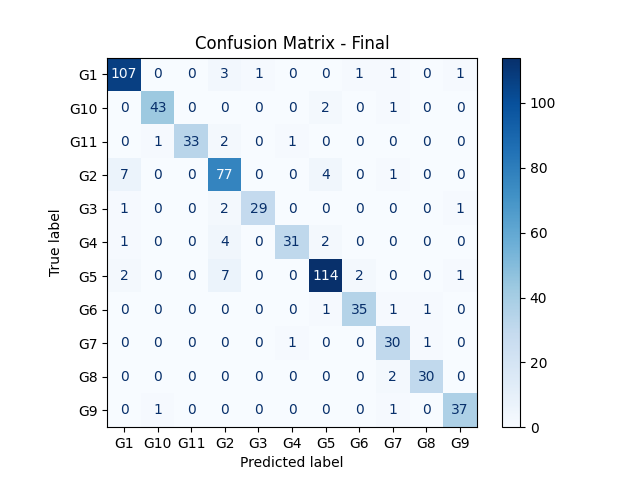
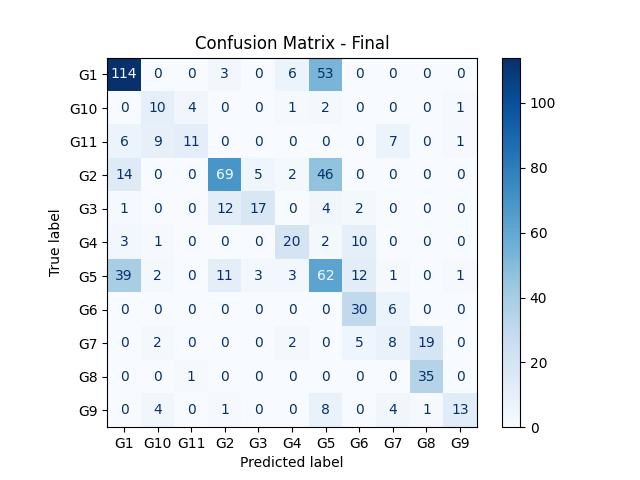
still a wip

diff --git a/train.py b/train.py
@@ -73,13 +73,13 @@ model = models.Sequential([
     layers.Conv2D(64, (3, 3), activation='relu', kernel_regularizer=regularizers.l2(0.001)),
     layers.MaxPooling2D((2, 2)),
 
-    layers.Conv2D(64, (3, 3), activation='relu', kernel_regularizer=regularizers.l2(0.001)),
-    layers.MaxPooling2D((2, 2)),
-
     layers.Conv2D(128, (3, 3), activation='relu', kernel_regularizer=regularizers.l2(0.001)),
     layers.MaxPooling2D((2, 2)),
 
-    layers.Conv2D(128, (3, 3), activation='relu', kernel_regularizer=regularizers.l2(0.001)),
+    layers.Conv2D(256, (3, 3), activation='relu', kernel_regularizer=regularizers.l2(0.001)),
+    layers.MaxPooling2D((2, 2)),
+
+    layers.Conv2D(256, (3, 3), activation='relu', kernel_regularizer=regularizers.l2(0.001)),
     layers.MaxPooling2D((2, 2)),
 
     layers.Flatten(),
@@ -112,7 +112,7 @@ class ConfusionMatrixCallback(tf.keras.callbacks.Callback):
         self.class_names = class_names
 
     def on_epoch_end(self, epoch, logs=None):
-        if (epoch + 1) % 5 != 0:  # Change 2 to any interval you prefer
+        if (epoch + 1) % 20 != 0:  # Change 2 to any interval you prefer
             return
 
         # Generate predictions
@@ -140,8 +140,8 @@ confusion_matrix_callback = ConfusionMatrixCallback(val_images, val_labels, clas
 # Train the model with the custom callback
 model_checkpoint = ModelCheckpoint('hand_sign_model.keras', save_best_only=True)
 
-early_stopping = EarlyStopping(monitor='val_loss', patience=40, restore_best_weights=True)
-lr_scheduler = ReduceLROnPlateau(monitor='val_loss', factor=0.5, patience=35, min_lr=1e-7, verbose=1)
+early_stopping = EarlyStopping(monitor='val_loss', patience=30, restore_best_weights=True)
+lr_scheduler = ReduceLROnPlateau(monitor='val_loss', factor=0.5, patience=20, min_lr=1e-7, verbose=1)
 
 history = model.fit(
     train_ds,

diff --git a/inference.py b/inference.py
@@ -6,8 +6,8 @@ import tensorflow as tf
 import json
 import os
 
-USE_IMAGES = False
-path = "labeled/G2"
+USE_IMAGES = True
+path = "validation/G1"
 cam_device = 0
 
 
